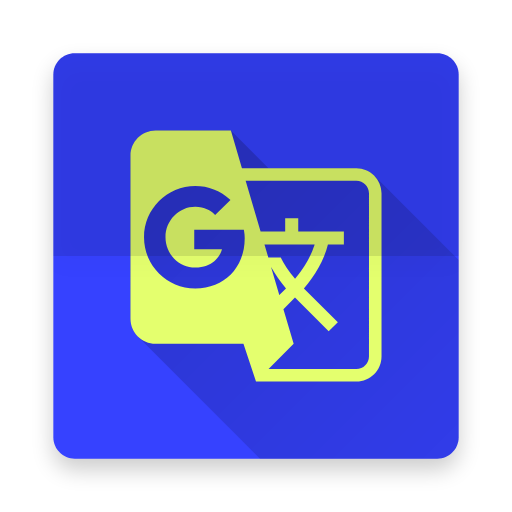
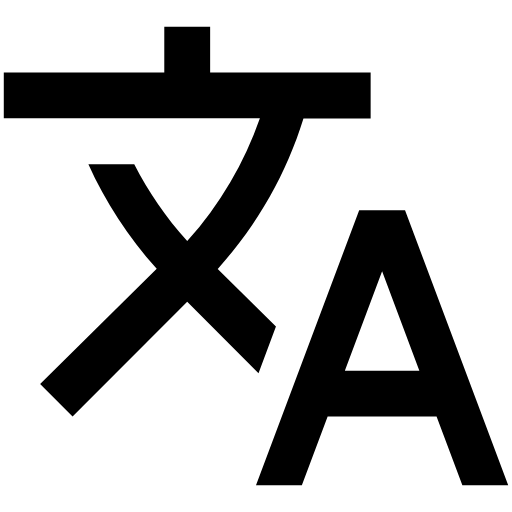
added a button to browser's toolbar

diff --git a/js/main.js b/js/main.js
@@ -1,7 +1,7 @@
 // Author: iraj jelodari <iraj.jelo@gmail.com>
 
-var __version__ = 'v1.2.1';
-var text, sl, tl, enabled;
+var text, sl, tl;
+var translation = false;
 var default_source_language = "en";
 var default_target_language = "fa";
 
@@ -526,19 +526,34 @@ var mouseUpEvevntCallback = function(e){
     }
 }
 
-document.addEventListener('keyup', function(e) { 
+var keyUpCallback = function(e) {
   if (e.altKey && e.ctrlKey && (e.keyCode == 84)) {
-    // <alt> + <ctrl> + <doubleclick>
-    if (enabled){
-      enabled = false;
-      document.body.className = document.body.className.replace(new RegExp('help-cursor', 'g'), '').trim();
-      document.body.removeEventListener('mouseup', mouseUpEvevntCallback);
-      window.getSelection().removeAllRanges();
-    } else {
-      enabled = true;
-      document.body.className = (document.body.className != '')?  document.body.className + ' ' + 'help-cursor' : 'help-cursor';
-      document.body.addEventListener('mouseup', mouseUpEvevntCallback);
-      window.getSelection().removeAllRanges();
-    }
+    browser.runtime.sendMessage({translation: translation});
   } 
-}, false);
+}
+
+document.addEventListener('keyup', keyUpCallback, false);
+
+var enable = function() {
+  translation = true;
+  document.body.className = (document.body.className != '')?  document.body.className + ' ' + 'help-cursor' : 'help-cursor';
+  document.body.addEventListener('mouseup', mouseUpEvevntCallback);
+  window.getSelection().removeAllRanges();
+}
+
+var disable = function() {
+  translation = false;
+  document.body.className = document.body.className.replace(new RegExp('help-cursor', 'g'), '').trim();
+  document.body.removeEventListener('mouseup', mouseUpEvevntCallback);
+  window.getSelection().removeAllRanges();
+}
+
+browser.runtime.onMessage.addListener(request => {
+  // if request.translation was true and translation was false, do translate
+  if (request.translation && !translation) enable();
+  // if request.translation was false and translation was true, dont translate 
+  if (!request.translation && translation) disable();
+
+  options = request.options;
+  return Promise.resolve({response: "Hi from content script"});
+});

diff --git a/background.js b/background.js
@@ -1,0 +1,56 @@
+// Author: iraj jelodari <iraj.jelo@gmail.com>
+var translation = true;
+
+var browser_action_on_icons = {16: "icons/16.png", 32: "icons/32.png"};
+var browser_action_off_icons = {16: "icons/16-off.png", 32: "icons/32-off.png"};
+
+function log(msg){
+  console.log(msg);
+}
+
+function onError(error) {
+  console.error(`Error: ${error}`);
+}
+
+function toggle_translating() {
+  if (translation == true) {
+    translation = false;
+    browser.browserAction.setIcon({path: browser_action_off_icons}); 
+    sendMessageToTabs();
+  } else {
+    translation = true;
+    browser.browserAction.setIcon({path: browser_action_on_icons});
+    sendMessageToTabs();
+  }
+}
+
+function sendMessageToTabsCallbak(tabs) {
+  for (let tab of tabs) {
+    browser.tabs.sendMessage(tab.id, {translation: translation}).then(response => {}).catch(onError);
+  }
+}
+
+function sendMessageToTabs() {
+  browser.tabs.query({
+    active: true
+  }).then(sendMessageToTabsCallbak).catch(onError);
+}
+
+function handleActivated(activeInfo) {
+  sendMessageToTabs();
+}
+
+function handleUpdated(tabId, changeInfo, tabInfo) {
+  if (changeInfo.status == "complete"){ sendMessageToTabs() };
+}
+
+browser.tabs.onUpdated.addListener(handleUpdated);
+browser.tabs.onActivated.addListener(handleActivated);
+browser.browserAction.onClicked.addListener(toggle_translating);
+
+function handleMessage(request, sender, sendResponse) {
+  if (request.translation == true || request.translation == false) toggle_translating()
+}
+
+browser.runtime.onMessage.addListener(handleMessage);
+

diff --git a/css/styles.css b/css/styles.css
@@ -124,7 +124,7 @@
 #SelectiveDictModal input{
   padding: 3px;
   display: inline;
-  padding: 8px;
+  padding: 0 8px;
   border: none !important;
   color: #393835;
   background: #e7efef !important;
